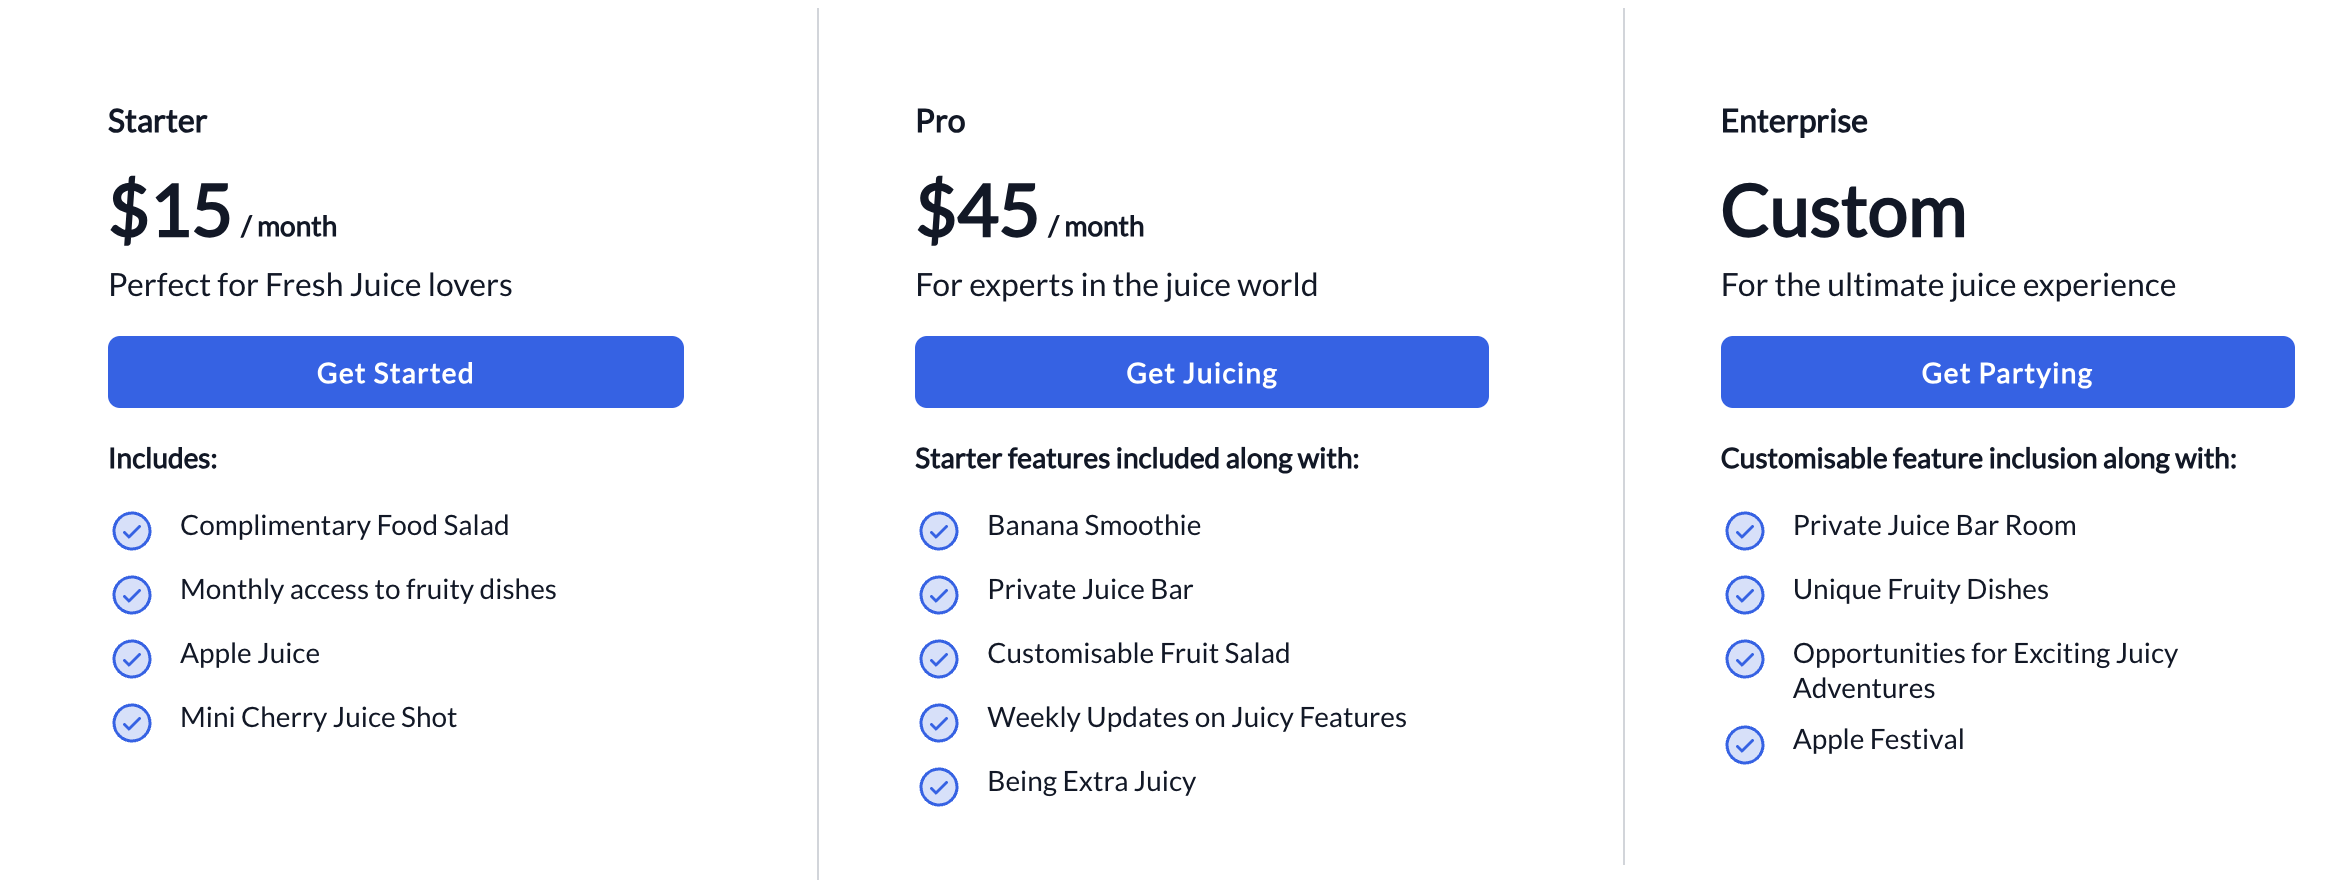
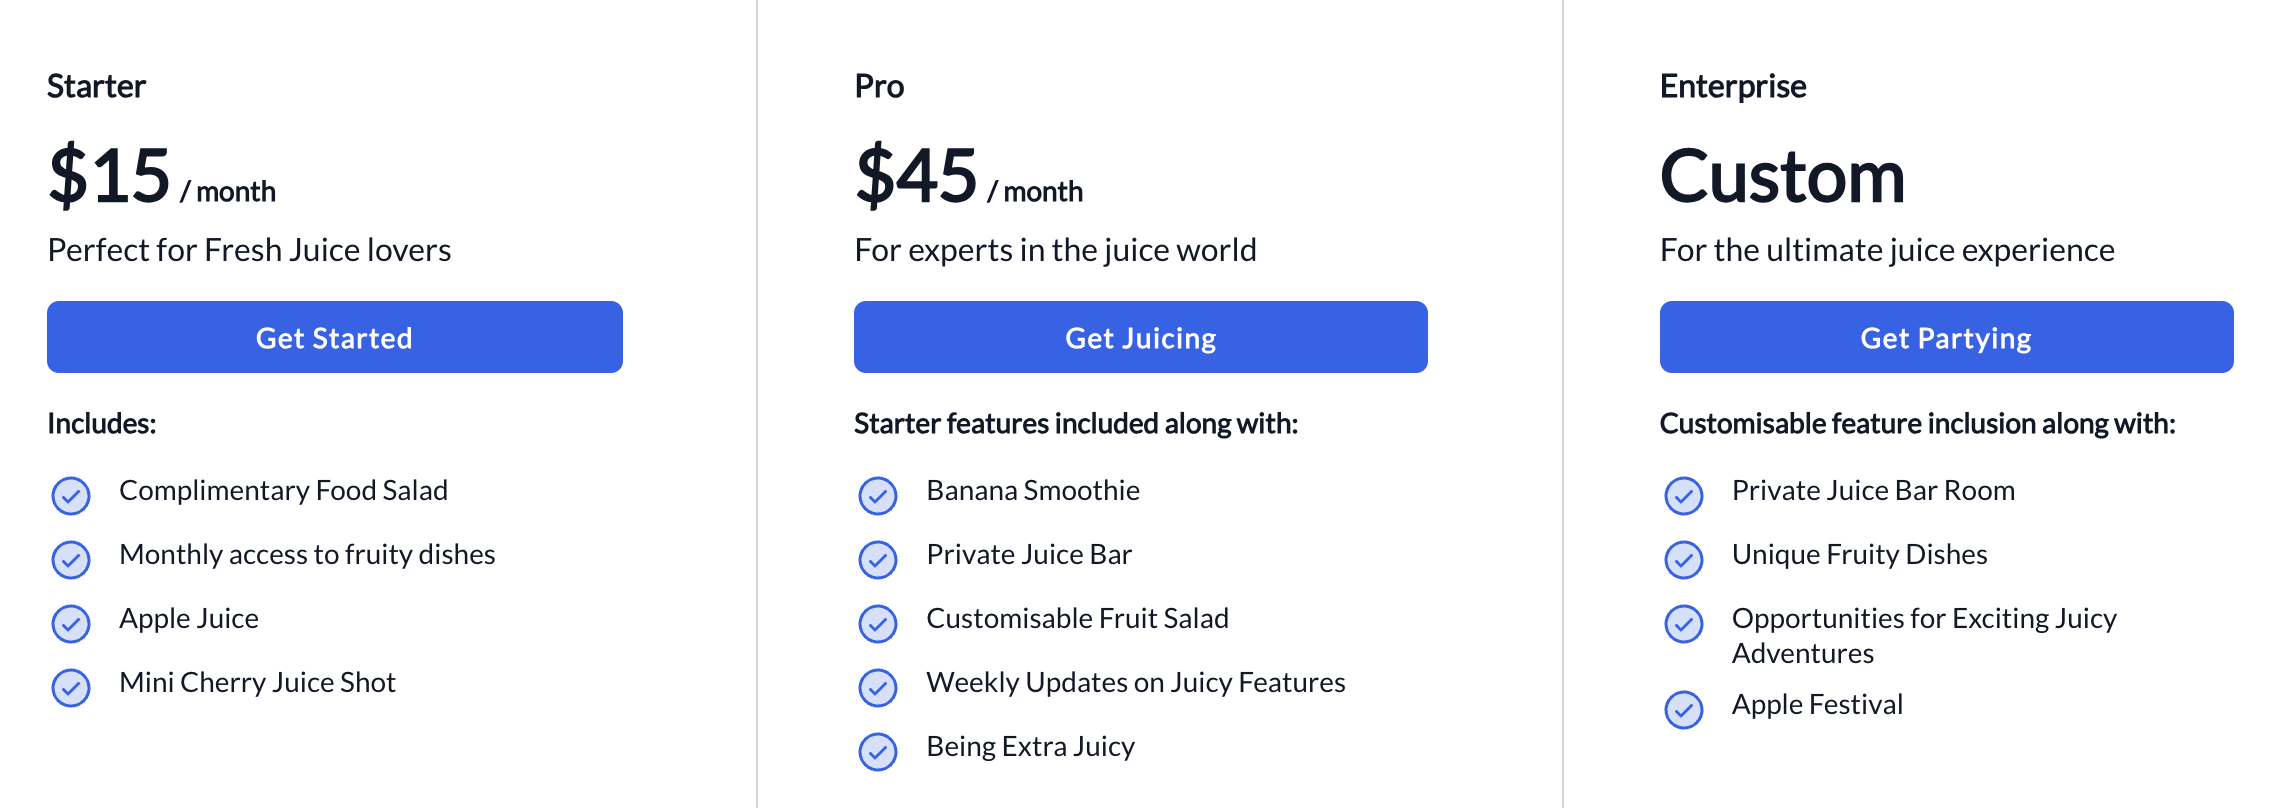
update pricing card images and related posts docs

diff --git a/src/content/docs/modules/pricing-card/index.md b/src/content/docs/modules/pricing-card/index.md
@@ -11,7 +11,7 @@ You can check the demo page [here](https://143910617.hs-sites-eu1.com/module-pri
 
 ## Single Pricing Card
 
-<img src="./pricing-card.png" alt="Screenshot how Single Pricing Card Looks" />
+<img src="./pricing-card.png" alt="Screenshot how Single Pricing Card Looks" eleventy:widths="300" />
 
 The Single Pricing Card has the following settings:
 
@@ -32,7 +32,7 @@ The Single Pricing Card has the following settings:
 
 ## Pricing Cards
 
-<img src="./pricing-cards.png" alt="Screenshot how Three Grid Pricing Cards looks" />
+<img src="./pricing-cards.png" alt="Screenshot how Three Grid Pricing Cards looks" eleventy:widths="700" />
 
 ### Settings
 
@@ -54,7 +54,7 @@ For each Price Card, you can set the following settings:
 
 ## Price Card with Details
 
-<img src="./price-card-with-details.png" alt="Screenshot how a more detailed Pricing Card looks" />
+<img src="./price-card-with-details.png" alt="Screenshot how a more detailed Pricing Card looks" eleventy:widths="700" />
 
 ### Settings
 

diff --git a/src/content/docs/modules/related-posts/index.md b/src/content/docs/modules/related-posts/index.md
@@ -7,8 +7,7 @@ desc: Related Posts module is used to display blog posts similar to the post you
 
 Related Posts module is used to display blog posts similar to the post you're at in the blog. Additionally, it can only be used in content type "BLOG_POST".
 
-There is only the Layout settings for this module. You may select either Row or Column.
-
-Row makes this module full width and horizontal on the page, while column will have the module on the right side of the page near the blog content.
-
 You can check the related posts module in action [here](https://143910617.hs-sites-eu1.com/blog/tangy-and-nutrient-packed-orange-spinach-salad)
+
+## Settings
+- **Layout**: Choose between Row or Column. Row makes this module full width and horizontal on the page, while column will have the module on the right side of the page near the blog content. Default value is Row.
